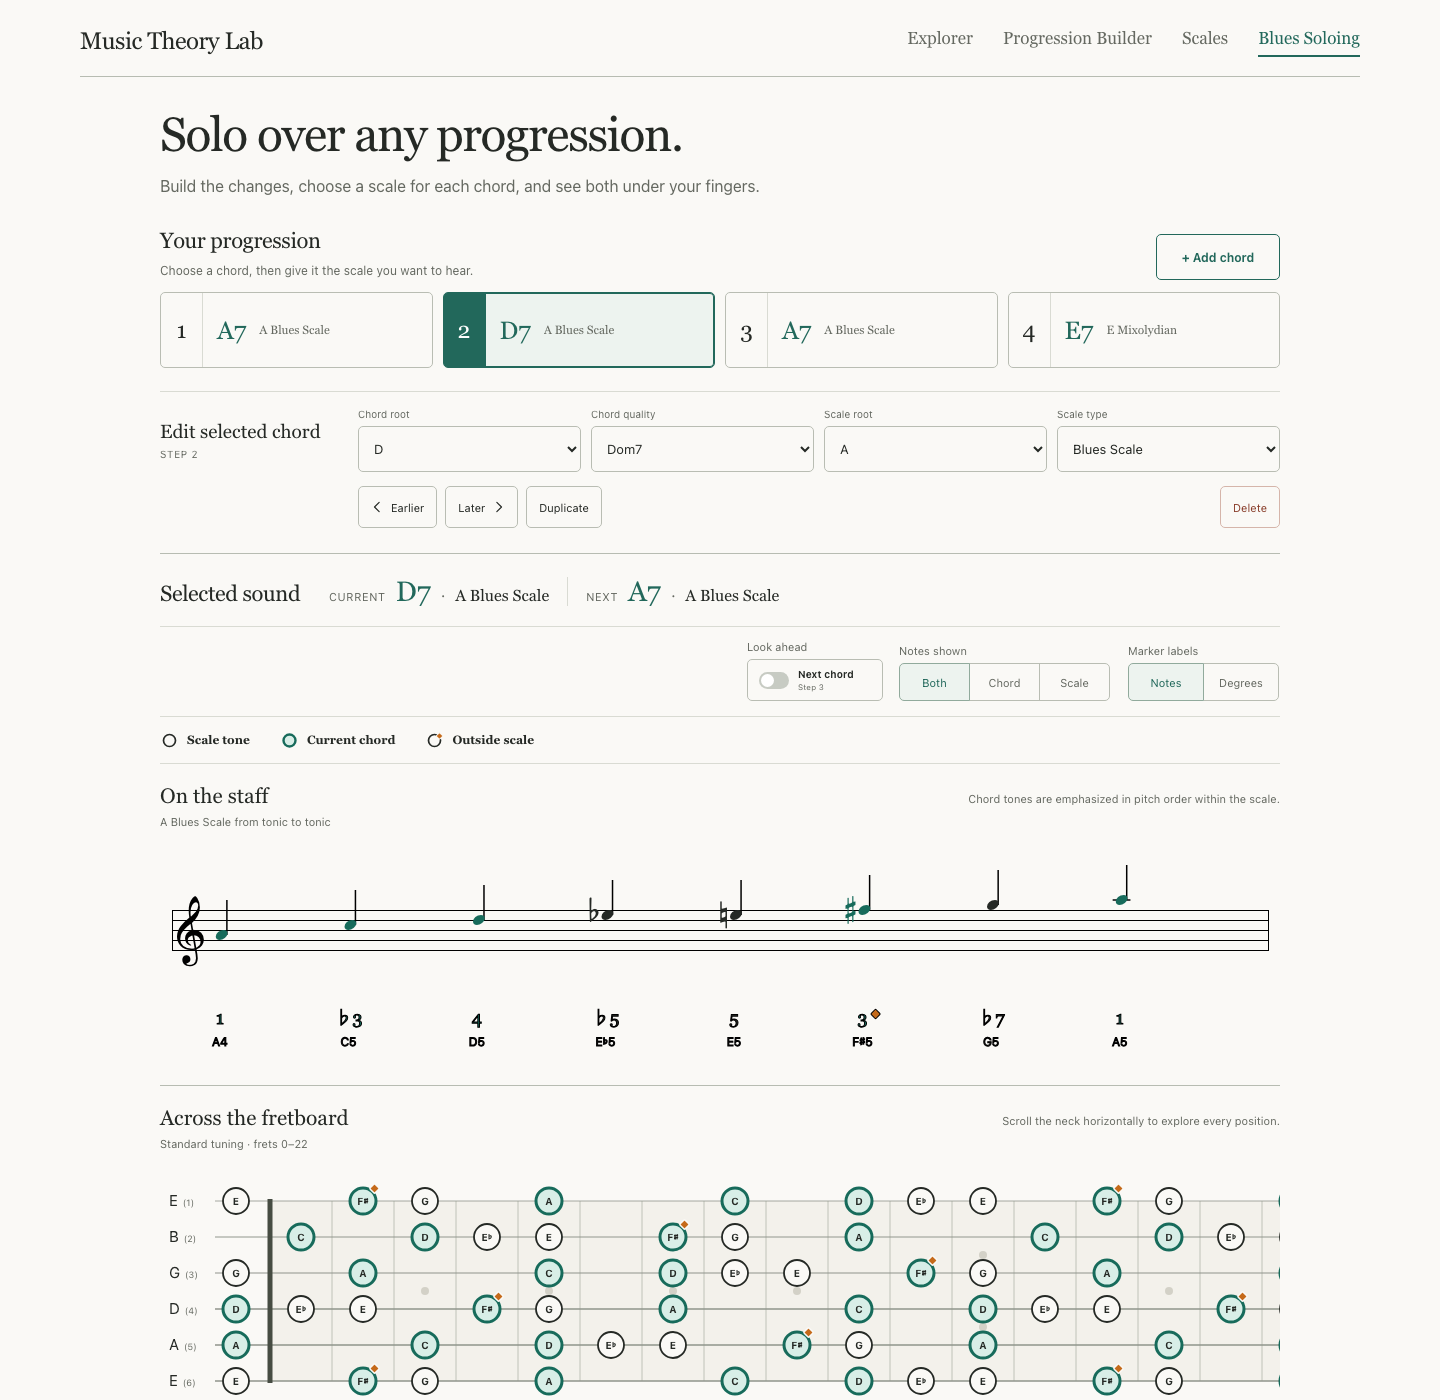
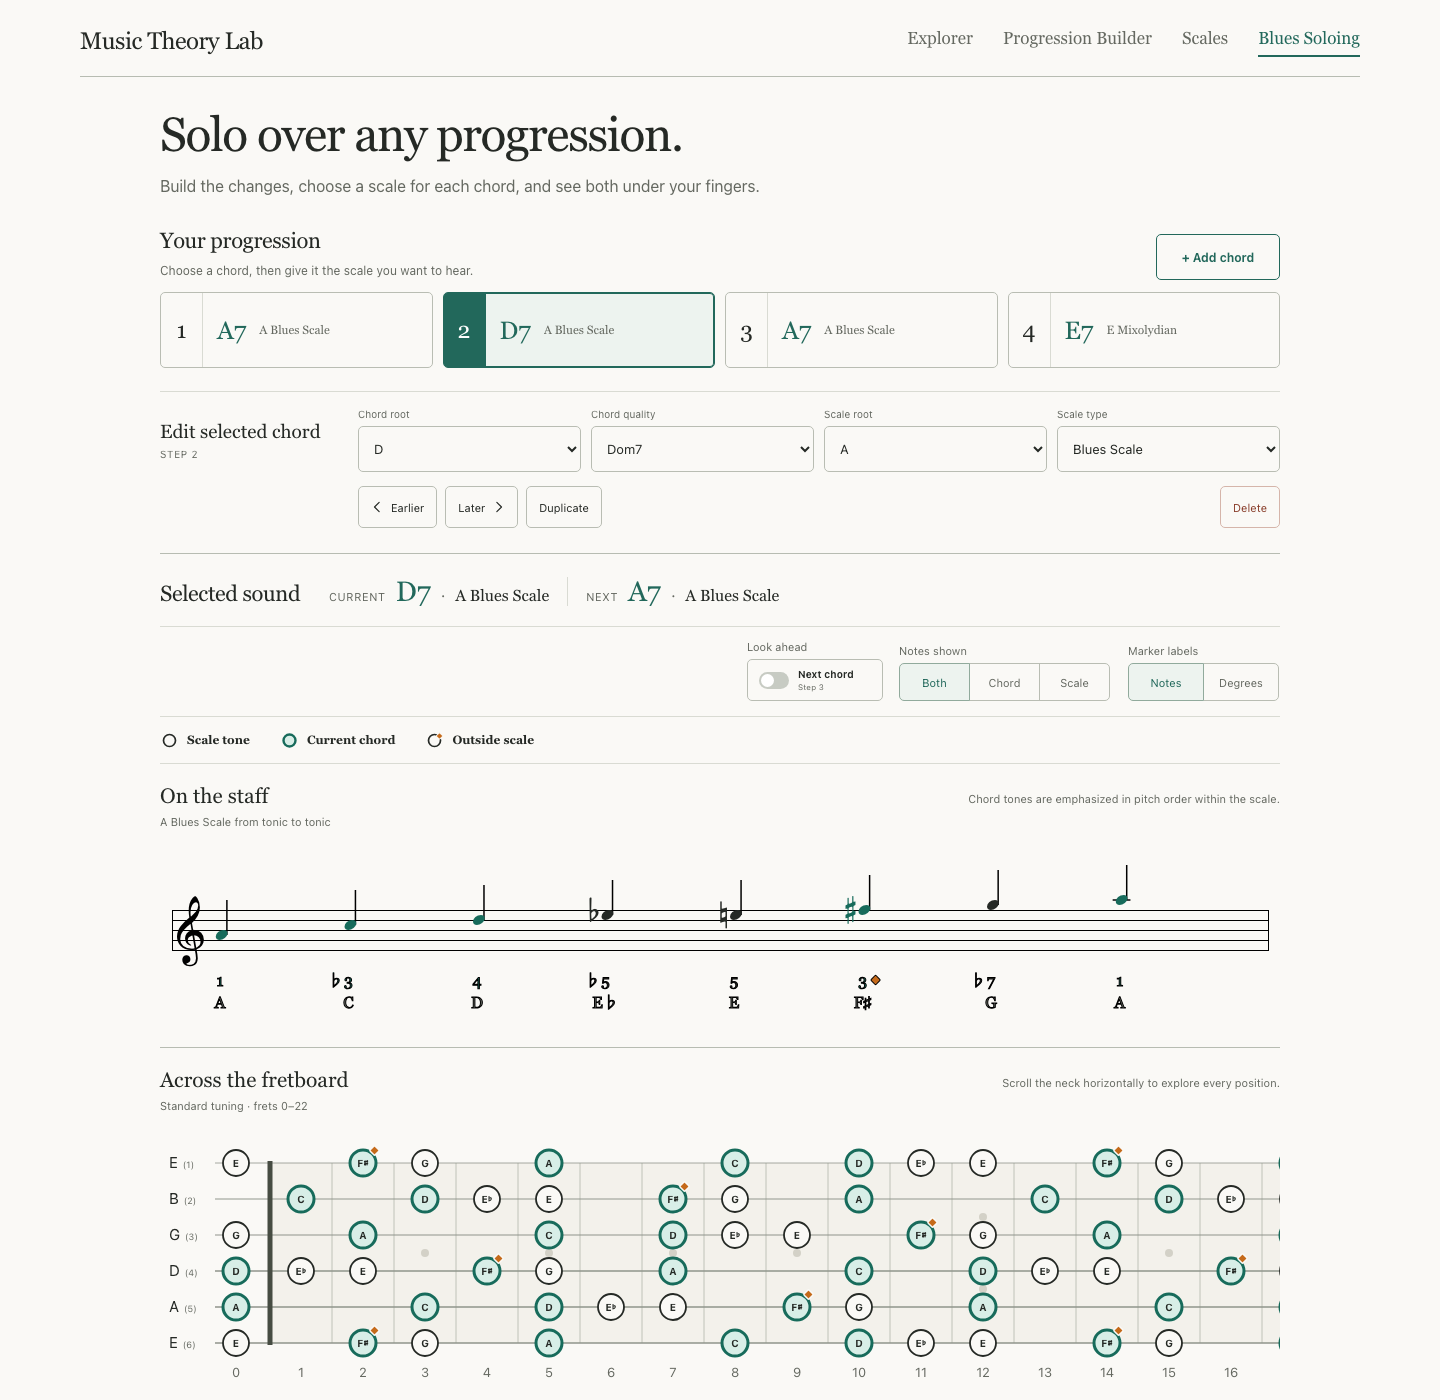
Refine soloing staff labels

diff --git a/src/components/SoloingStaffView.tsx b/src/components/SoloingStaffView.tsx
@@ -38,6 +38,34 @@ function appendText(svg: SVGSVGElement, x: number, y: number, text: string, opti
   svg.append(label)
 }
 
+function appendDegreeLabel(svg: SVGSVGElement, x: number, y: number, degree: string, color: string) {
+  const displayedDegree = displayNote(degree)
+  const accidental = displayedDegree.match(/^[♭♯]/)?.[0]
+  const numeral = accidental ? displayedDegree.slice(accidental.length) : displayedDegree
+  const options = {
+    color,
+    family: "Georgia, 'Times New Roman', serif",
+    size: 16,
+    weight: '400',
+  }
+
+  // Center the numeral itself on the notehead. Centering the full string would
+  // push a flattened or sharpened degree visibly to the right of its pitch name.
+  appendText(svg, x, y, numeral, options)
+  if (accidental) {
+    const accidentalLabel = document.createElementNS(svg.namespaceURI, 'text')
+    accidentalLabel.setAttribute('x', String(x - 5))
+    accidentalLabel.setAttribute('y', String(y))
+    accidentalLabel.setAttribute('text-anchor', 'end')
+    accidentalLabel.setAttribute('fill', color)
+    accidentalLabel.setAttribute('font-family', options.family)
+    accidentalLabel.setAttribute('font-size', String(options.size))
+    accidentalLabel.setAttribute('font-weight', options.weight)
+    accidentalLabel.textContent = accidental
+    svg.append(accidentalLabel)
+  }
+}
+
 function appendNextHalo(svg: SVGSVGElement, x: number, y: number, radius: number) {
   const ring = document.createElementNS(svg.namespaceURI, 'ellipse')
   ring.setAttribute('cx', String(x))
@@ -69,7 +97,7 @@ function describeTone(tone: SoloingStaffTone, showNextChord: boolean, noteFilter
   if (noteFilter !== 'scale' && tone.isCurrentChordTone) roles.push(`degree ${displayNote(tone.currentChordTone?.label ?? '')} of the current chord`)
   if (noteFilter !== 'scale' && showNextChord && tone.isNextChordTone) roles.push(`degree ${displayNote(tone.nextChordTone?.label ?? '')} of the next chord`)
   if (noteFilter !== 'scale' && tone.isOutsideScale) roles.push('outside the selected scale')
-  return `${displayNote(tone.pitch.scientific)}: ${roles.join(', ')}`
+  return `${displayNote(tone.pitch.name)}: ${roles.join(', ')}`
 }
 
 function toneColor(tone: SoloingStaffTone, noteFilter: SoloingNoteFilter) {
@@ -117,7 +145,7 @@ export default function SoloingStaffView({ model, showNextChord = false, noteFil
 
       host.replaceChildren()
       const width = Math.max(680, host.clientWidth, visibleTones.length * 76 + 92)
-      const height = 234
+      const height = 196
       const renderer = new Renderer(host, Renderer.Backends.SVG)
       renderer.resize(width, height)
       const context = renderer.getContext()
@@ -155,17 +183,14 @@ export default function SoloingStaffView({ model, showNextChord = false, noteFil
         const color = toneColor(tone, noteFilter)
 
         if (noteFilter !== 'scale' && showNextChord && tone.isNextChordTone) appendNextHalo(svg, x, y, 12)
-        if (noteFilter !== 'scale' && tone.isOutsideScale) appendOutsideDiamond(svg, x + 13, 179)
+        if (noteFilter !== 'scale' && tone.isOutsideScale) appendOutsideDiamond(svg, x + 13, 145)
 
-        appendText(svg, x, 189, displayNote(toneDegree(tone, noteFilter)), {
-          color,
-          family: "Georgia, 'Times New Roman', serif",
-          size: 18,
-        })
-        appendText(svg, x, 211, displayNote(tone.pitch.scientific), {
+        appendDegreeLabel(svg, x, 151, toneDegree(tone, noteFilter), color)
+        appendText(svg, x, 173, displayNote(tone.pitch.name), {
           color: SOLOING_VISUAL_COLORS.muted,
-          family: 'system-ui, sans-serif',
-          size: 12,
+          family: "Georgia, 'Times New Roman', serif",
+          size: 16,
+          weight: '400',
         })
       })
 
@@ -207,7 +232,7 @@ export default function SoloingStaffView({ model, showNextChord = false, noteFil
     role="region"
     aria-label="Soloing staff, scroll horizontally on small screens"
   >
-    <div className="blues-scale-staff scale-staff-view" role="img" aria-label={description} style={{ minWidth: 680, minHeight: 234 }}>
+    <div className="blues-scale-staff scale-staff-view" role="img" aria-label={description} style={{ minWidth: 680, minHeight: 196 }}>
       <div ref={hostRef} />
       {error && <p className="blues-staff-error" role="alert">The staff could not render. The note and degree summary remains available to assistive technology.</p>}
     </div>

diff --git a/docs/design/blues-progression-v2-verification.md b/docs/design/blues-progression-v2-verification.md
@@ -10,7 +10,7 @@ This pass supersedes the fixed 12-bar Blues Soloing design. It implements the co
 | Progression | Selectable numbered chord/scale cards | Horizontal rail with stable selection, add, move, duplicate, and delete |
 | Editor | Chord root/type plus independent scale root/type | Four direct selects with the requested six qualities and seven scales |
 | Current sound | Current and next harmony side by side | Live summary isolated from a dedicated view-controls toolbar, preventing long scale names from colliding with the next-chord control |
-| Staff | Scale from tonic to tonic with chord emphasis | VexFlow notation with a shared Both/Chord/Scale filter, the exact fretboard role palette, the same degree-and-pitch typography as other app staffs, ascending pitch order, and amber diamonds marking out-of-scale chord tones |
+| Staff | Scale from tonic to tonic with chord emphasis | VexFlow notation with a shared Both/Chord/Scale filter, the exact fretboard role palette, compact 16px regular-weight degree and pitch-class labels, numeral-centered accidentals, ascending pitch order, and amber diamonds marking out-of-scale chord tones |
 | Fretboard | One legible full-neck map | Standard tuning, frets 0–22, local horizontal scroll, Notes/Degrees labels; equal-size neutral scale and mint/green current-chord markers, with amber-diamond out-of-scale tones |
 | Overlay | Optional look-ahead | Compact, consistently labeled next-chord switch adds independent blue dashed halos on both staff and fretboard |
 | Legend | Explain marker roles without competing with controls | Separate one-line symbol-and-role key; treatment details remain available to assistive technology |
@@ -26,6 +26,7 @@ The concepts supplied the visual hierarchy, spacing, typography, palette, and in
 - Added, reordered, duplicated, and deleted progression steps while preserving selection.
 - Confirmed the final progression step previews step one.
 - Confirmed staff and fretboard descriptions update with all state changes.
+- Confirmed staff pitch labels omit octave numbers and flattened degrees keep their numeral and pitch letter on the notehead center axis.
 - Confirmed the browser console contains no runtime errors.
 
 ## Automated verification

diff --git a/docs/design/blues-progression-v2-spec.md b/docs/design/blues-progression-v2-spec.md
@@ -40,7 +40,8 @@ Mobile concept: `blues-progression-mobile-v2.png`
 - The next-chord control uses a short, persistent `Next chord` label; its switch and accessible name communicate whether the overlay is shown or hidden.
 - The marker key uses only the marker symbol and role name visually; treatment details remain in its accessible label.
 - On the staff, chord tones outside the scale are inserted at their chromatic pitch position inside the tonic-to-tonic run.
-- Staff noteheads and degree labels use the same shared role palette as the fretboard: ink for scale, green for current chord, amber for outside-scale next tones, and blue for the next-chord halo. Scientific pitch names stay neutral.
+- Staff noteheads and degree labels use the same shared role palette as the fretboard: ink for scale, green for current chord, amber for outside-scale next tones, and blue for the next-chord halo. Pitch-class names stay neutral and omit octave numbers.
+- Staff degree and pitch-class labels use the same 16px regular-weight app serif. The numeral and pitch letter share the notehead's center axis; an accidental sits to the numeral's left without shifting that axis.
 - Staff annotations reuse the established application hierarchy: a regular Georgia degree above a smaller muted system-sans scientific pitch.
 - Display type uses Georgia; UI controls use the system sans-serif stack.
 - Open rails and bands are preferred to nested cards. Controls retain 5px radii and at least 44px touch targets.
